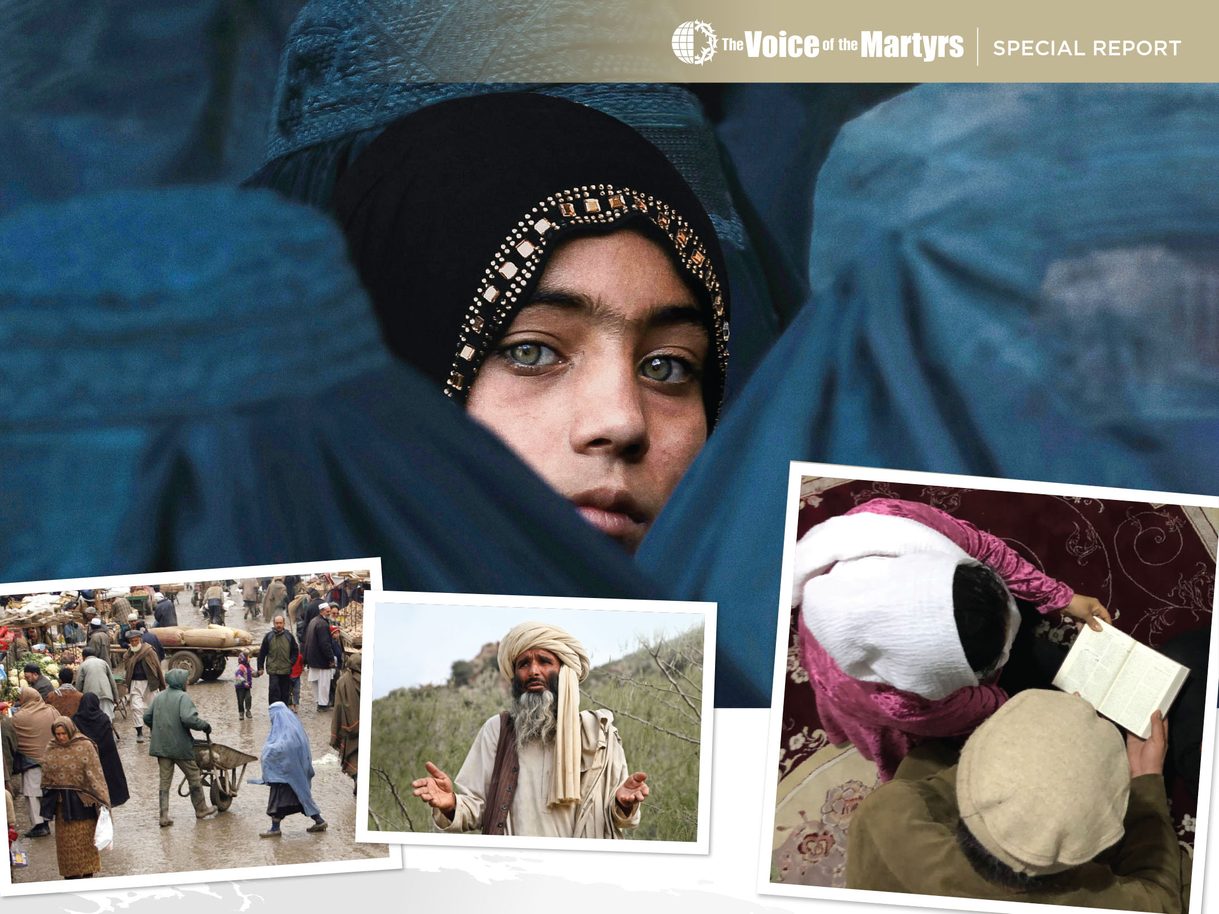
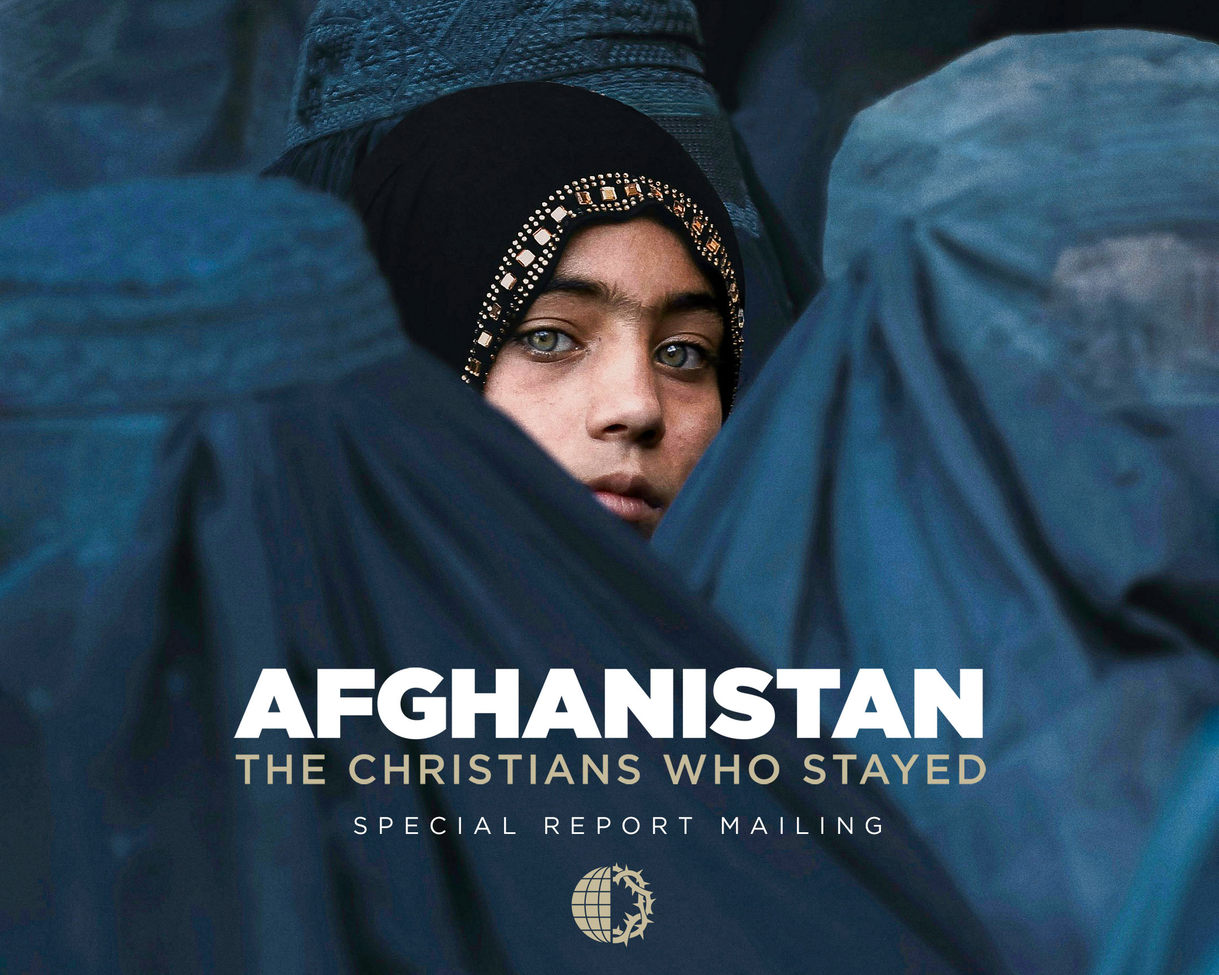
publish afghanistan special report project

diff --git a/_src/design/afghanistan special report.md b/_src/design/afghanistan special report.md
@@ -11,7 +11,7 @@ badges:
   - New
 links:
   Learn about VOM: //vom.org
-draft: true
+# draft: true
 ---
 
 {% from "macros.njk" import video %}
@@ -39,14 +39,14 @@ This was a multi-piece mailing package comprised of:
 
 VOM's visual language relies heavily on photography, aiming to bring readers into fellowship with their persecuted brothers and sisters in Christ. The media archive they maintain has over 1 million assets. However, the situation in Afghanistan made many of the photos in VOM's archive unsafe to publish. For approval to publish such photos, it takes between 1-2 weeks to get word from workers in the field.
 
-> At the end of the day, there was only **one** safe-to-use photo of actual Aghan Christians.
+> At the end of the day, there was only **one** safe-to-use photo of confirmed Christians in Aghanistan.
 
 ![Inside Spread](/img/afghanistan-sr/interior-spread.jpg)
 
 
 ## Solutions
 
-By this point we were behind schedule, with only one medium-resolution photo available to use. I turned to representative photos not necessarily from Afghanistan. Finally, as a last resort, I pulled the final few images from stock resources like Unsplash.
+By this point we were behind schedule, with only one medium-resolution photo available to use. I turned to representative photos, some from Afghanistan and some from the surrounding region. Finally, as a last resort, I pulled the final few images from stock resources like Unsplash.
 
 I designed the report with photos, color, and layout choices which demonstrated how Christians are undeterred by the grim reality of Taliban control.
 
